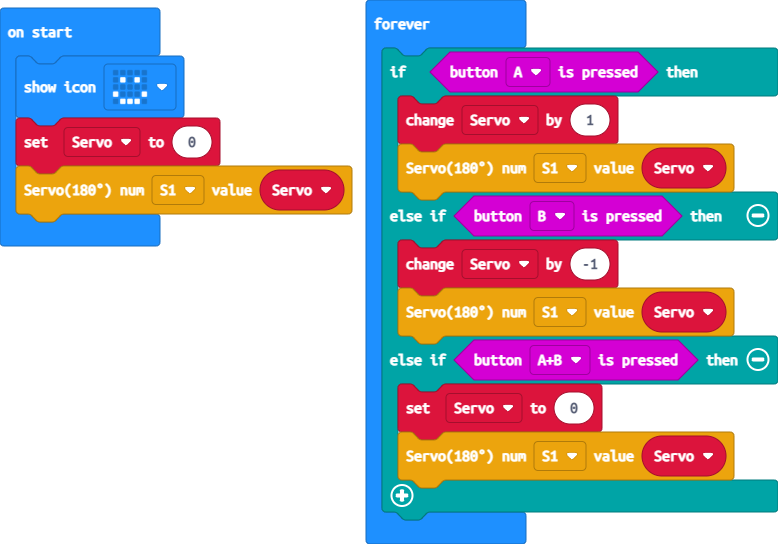
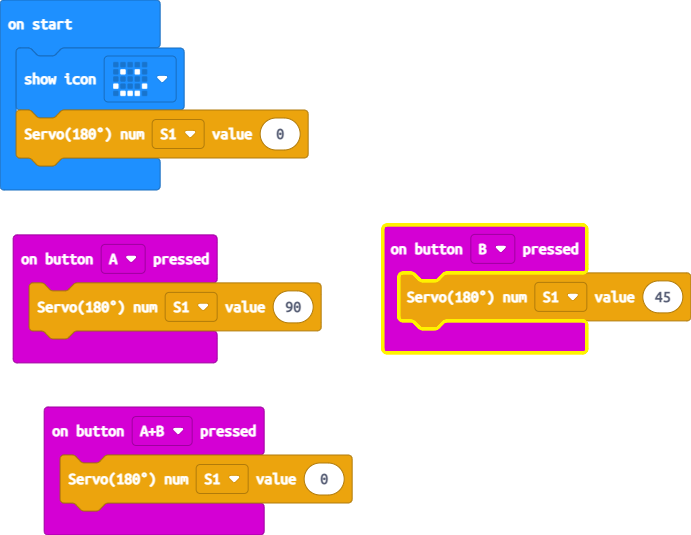
Update pxt.json, main.blocks, main.ts

diff --git a/main.ts b/main.ts
@@ -1,15 +1,11 @@
-basic.showIcon(IconNames.Happy)
-let Servo = 0
-SuperBit.Servo(SuperBit.enServo.S1, Servo)
-basic.forever(function () {
-    if (input.buttonIsPressed(Button.A)) {
-        Servo += 1
-        SuperBit.Servo(SuperBit.enServo.S1, Servo)
-    } else if (input.buttonIsPressed(Button.B)) {
-        Servo += -1
-        SuperBit.Servo(SuperBit.enServo.S1, Servo)
-    } else if (input.buttonIsPressed(Button.AB)) {
-        Servo = 0
-        SuperBit.Servo(SuperBit.enServo.S1, Servo)
-    }
+input.onButtonPressed(Button.A, function () {
+    SuperBit.Servo(SuperBit.enServo.S1, 90)
 })
+input.onButtonPressed(Button.AB, function () {
+    SuperBit.Servo(SuperBit.enServo.S1, 0)
+})
+input.onButtonPressed(Button.B, function () {
+    SuperBit.Servo(SuperBit.enServo.S1, 45)
+})
+basic.showIcon(IconNames.Happy)
+SuperBit.Servo(SuperBit.enServo.S1, 0)
